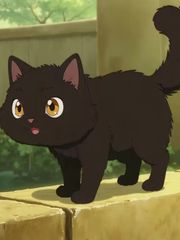
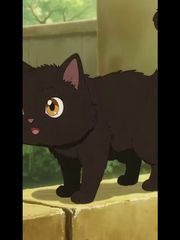
Fit focus scenes to every screen and use the app's own font everywhere
- Each photo and video scene now comes in four shapes: phone upright (9:16),
  tablet upright (3:4), tablet on its side (4:3) and laptop/desktop (16:9).
  The closest shape is picked for the screen and swapped when the device
  turns; videos keep their subject in view on upright screens.
- Readex Pro, the font the original app shows, is now served from fonts/
  (subset to Arabic and Latin, SIL OFL 1.1 with its licence) at the same
  400/700/800 weights the original loaded, preloaded and precached so it
  looks the same offline and in greeting cards. The font chooser and the
  request to the font server are gone; the settings fold arrow is drawn
  with CSS so no text falls back to another font.

Claude-Session: https://claude.ai/code/session_01V8c6hMMZy6JN8V6obZfNdZ

Changed region(s): [[0.8611, 0.0, 1.0, 1.0], [0.0, 0.0, 0.1389, 1.0]]

diff --git a/index.html b/index.html
@@ -8,6 +8,7 @@
 <meta name="theme-color" content="#3D405B">
 
 <link rel="manifest" href="./manifest.webmanifest">
+<link rel="preload" href="./fonts/readex-pro.woff2" as="font" type="font/woff2" crossorigin>
 <meta name="mobile-web-app-capable" content="yes">
 <meta name="apple-mobile-web-app-capable" content="yes">
 <meta name="apple-mobile-web-app-status-bar-style" content="black-translucent">
@@ -16,7 +17,7 @@
 <link rel="icon" type="image/png" sizes="192x192" href="./icon-192.png">
 
 <!--
-  شاشة المكتب: صفحة واحدة تشتغل على أي متصفح، بدون إنترنت (الخط فقط يحتاج إنترنت أول مرة).
+  شاشة المكتب: صفحة واحدة تشتغل على أي متصفح، بدون إنترنت (حتى الخط محفوظ داخله في مجلد fonts).
   عدّل الإعدادات تحت (داخل desk-config) أو من زر ⚙ داخل الشاشة نفسها.
   البيانات (المهام، الملاحظات، التسجيلات، الملفات، الإعدادات) تنحفظ في متصفح جهازك فقط، ومن الإعدادات تقدر تحفظ نسخة احتياطية.
 -->
@@ -44,6 +45,12 @@
 </script>
 <style>
 /* Layout: one portrait page at a time (time, tasks, focus, adhkar) with a tab bar at the bottom. Colors come from the chosen palette and switch light/dark with the time of day. */
+/* The one font of the app: Readex Pro (SIL Open Font License 1.1, see fonts/OFL.txt), kept in fonts/ so every page, button,
+   note and greeting card looks the same on every device, online or offline. Same three weights the original loaded:
+   300 and 500 draw as 400, 600 as 700, 800 as the font's boldest. */
+@font-face{font-family:"Readex Pro";src:url(./fonts/readex-pro.woff2) format("woff2");font-weight:400;font-style:normal;font-display:swap}
+@font-face{font-family:"Readex Pro";src:url(./fonts/readex-pro.woff2) format("woff2");font-weight:700;font-style:normal;font-display:swap}
+@font-face{font-family:"Readex Pro";src:url(./fonts/readex-pro.woff2) format("woff2");font-weight:800;font-style:normal;font-display:swap}
 :root{--u:min(1vw,.5625vh);--f:"Readex Pro","IBM Plex Sans Arabic","Geeza Pro",system-ui,sans-serif;
   --bg:#FDF6EC;--surface:#FFFDF8;--card:#F4EADB;--fg:#2B2D42;--muted:#6B6D80;--line:#E7DCCB;--accent:#E07A5F;--accentInk:#B8553C;--accentFg:#fff;
   --gold:#F2CC8F;--goldInk:#8E6A22;--ok:#4F8A6E;--hero:#3D405B;--heroFg:#FDF6EC;--heroMuted:#C9CADB;--heroTrack:rgba(253,246,236,.16);--olive:#81B29A}
@@ -451,8 +458,8 @@ textarea{font:inherit;color:inherit}
 .pill.sm{min-height:30px;padding:0 10px;font-size:13px;vertical-align:middle}
 details.dd summary{list-style:none}
 details.dd summary::-webkit-details-marker{display:none}
-details.dd summary::after{content:"▾";margin-inline-start:auto;color:var(--muted)}
-details.dd[open] summary::after{content:"▴"}
+details.dd summary::after{content:"";flex:none;width:.45em;height:.45em;margin-inline-start:auto;border:solid var(--muted);border-width:0 2px 2px 0;border-radius:1px;transform:translateY(-.15em) rotate(45deg)}
+details.dd[open] summary::after{transform:translateY(.15em) rotate(-135deg)}
 body.ambbg #occbg{visibility:hidden}
 .mini .hj{color:var(--accentInk);font-weight:700}
 .date .hjb{color:var(--accentInk);font-weight:700}
@@ -628,7 +635,7 @@ const PALETTES={
   blossom:{light:{bg:'#FFF6F9',surface:'#FFFFFF',card:'#FCE6EE',fg:'#3A2440',muted:'#83708A',line:'#F3D6E1',accent:'#E2598A',accentInk:'#B83C68',accentFg:'#FFFFFF',gold:'#FFD39B',goldInk:'#94582B',ok:'#3F9A7A',olive:'#8FC9AE',hero:'#6B3A6E',heroFg:'#FFF6F9',heroMuted:'#E6CBE7'},
         dark:{bg:'#1E1622',surface:'#2A1F2F',card:'#36293C',fg:'#FBEFF4',muted:'#C4AFC6',line:'#46364C',accent:'#F38BAE',accentInk:'#F8A9C4',accentFg:'#1E1622',gold:'#FFD39B',goldInk:'#FFD39B',ok:'#7FD1B0',olive:'#7FD1B0',hero:'#3A2840',heroFg:'#FBEFF4',heroMuted:'#C4AFC6'}}};
 /* Arabic fonts from Google Fonts: [family, Arabic label, weights that family really has] */
-const FONTS=[['Readex Pro','ريدكس (الأصلي)','400;700;800'],['Almarai','المراعي','300;400;700;800'],['IBM Plex Sans Arabic','بلكس','400;500;700'],['Tajawal','تجوال','400;500;700;800'],['Noto Kufi Arabic','كوفي','400;700;800']];
+const APP_FONT='Readex Pro';   /* the app's only font, from fonts/readex-pro.woff2 */
 const ALL_PAGES=[['time','الوقت'],['tasks','مهامي'],['notes','ملاحظاتي'],['focus','التركيز'],['adhkar','الأذكار']];
 const lsGet=(k,f)=>{try{const v=JSON.parse(localStorage.getItem(k));return v==null?f:v}catch(e){return f}};
 const lsSet=(k,v)=>{try{localStorage.setItem(k,JSON.stringify(v))}catch(e){}};
@@ -637,7 +644,7 @@ function settings(){
   const s={name:typeof o.name==='string'?o.name:(CFG.name||''),city:CITIES[o.city]?o.city:(CITIES[CFG.city]?CFG.city:'muscat'),
     method:METHODS[o.method]?o.method:(METHODS[CFG.method]?CFG.method:'uq'),theme:['auto','light','dark'].includes(o.theme)?o.theme:(['auto','light','dark'].includes(CFG.theme)?CFG.theme:'auto'),
     clock:(o.clock||CFG.clock)==='24'?'24':'12',adj:{fajr:0,dhuhr:0,asr:0,maghrib:0,isha:0},hijriAdj:0,
-    palette:PALETTES[o.palette]?o.palette:(PALETTES[CFG.palette]?CFG.palette:'navy'),font:FONTS.some(f=>f[0]===o.font)?o.font:(FONTS.some(f=>f[0]===CFG.font)?CFG.font:'Readex Pro'),mascot:o.mascot===true,
+    palette:PALETTES[o.palette]?o.palette:(PALETTES[CFG.palette]?CFG.palette:'navy'),mascot:o.mascot===true,
     adhan:['aqsa','file','chime'].includes(o.adhan)?o.adhan:'aqsa',fajr:['same','file','chime'].includes(o.fajr)?o.fajr:'same',
     pre:[0,5,10,15].includes(+o.pre)?+o.pre:10,click:['pop','bubble','bell','off'].includes(o.click)?o.click:'pop',
     nudge:[0,30,60,90].includes(+o.nudge)?+o.nudge:60,work:[7,15],dict:o.dict==='en'?'en':'ar',
@@ -654,11 +661,6 @@ const PAGES=ALL_PAGES.filter(([k])=>!Array.isArray(CFG.pages)||CFG.pages.include
 let PAL=PALETTES[ST.palette]||PALETTES.navy;
 const FW=Array.isArray(CFG.focus)?CFG.focus:[25,5];
 const FOCUS_WORK=Math.max(5,Math.min(120,+FW[0]||25))*6e4,FOCUS_BREAK=Math.max(1,Math.min(30,+FW[1]||5))*6e4;
-const fontDone={};
-function fontCss(list){const fam=list.filter(d=>!fontDone[d[0]]);if(!fam.length)return;fam.forEach(d=>fontDone[d[0]]=1);const l=document.createElement('link');l.rel='stylesheet';
-  l.href='https://fonts.googleapis.com/css2?'+fam.map(d=>'family='+d[0].replace(/ /g,'+')+':wght@'+d[2]).join('&')+'&display=swap';document.head.appendChild(l)}
-function useFont(f){const d=FONTS.find(x=>x[0]===f)||FONTS[0];fontCss([d]);document.documentElement.style.setProperty('--f',`"${d[0]}","IBM Plex Sans Arabic","Geeza Pro",system-ui,sans-serif`)}
-useFont(ST.font);
 
 /* ---------- helpers ---------- */
 const esc=s=>String(s??'').replace(/[&<>"']/g,c=>({'&':'&amp;','<':'&lt;','>':'&gt;','"':'&quot;',"'":'&#39;'}[c]));
@@ -935,7 +937,7 @@ document.addEventListener('visibilitychange',()=>{if(!document.hidden&&OB.occ&&!
 /* greeting card: a picture to share on the occasion's day */
 function wrapLines(x,text,maxW){const words=String(text).split(/\s+/),lines=[];let cur='';for(const w of words){const t=cur?cur+' '+w:w;if(x.measureText(t).width>maxW&&cur){lines.push(cur);cur=w}else cur=t}if(cur)lines.push(cur);return lines}
 async function greetCard(id){const o=OCC.find(z=>z.id===id)||occActive();if(!o)return;toast('أجهّز بطاقة التهنئة…');
-  const FF='"'+ST.font+'","Geeza Pro",sans-serif';try{await Promise.all(['800 64px "'+ST.font+'"','400 40px "'+ST.font+'"'].map(f=>document.fonts&&document.fonts.load?document.fonts.load(f):0))}catch(e){}
+  const FF='"'+APP_FONT+'","Geeza Pro",sans-serif';try{await Promise.all(['400','700','800'].map(w=>document.fonts&&document.fonts.load?document.fonts.load(w+' 40px "'+APP_FONT+'"'):0))}catch(e){}
   const W=1080,Hh=1350,c=document.createElement('canvas');c.width=W;c.height=Hh;const x=c.getContext('2d');
   x.fillStyle='#FFFDF9';x.fillRect(0,0,W,Hh);x.drawImage(paintBase(o,W,Hh,false,true),0,0);
   const R=seeded(o.id.length*977+W);for(const p of makeParts(o,W,Hh,R)){p.sz*=1.6;if(p.y>Hh*.2&&p.y<Hh*.82&&p.x>W*.08&&p.x<W*.92)continue;drawPart(x,p,false)}
@@ -1293,7 +1295,7 @@ async function wake(){try{if(navigator.wakeLock&&!document.hidden)await navigato
 /* ---------- settings sheet ---------- */
 const chipsH=(id,opts,cur)=>`<div class="chips" id="${id}">${opts.map(([k,l])=>`<button type="button" data-a="pick" data-v="${k}" aria-pressed="${String(k)===String(cur)}">${l}</button>`).join('')}</div>`;
 function openSettings(){
-  S.draft=JSON.parse(JSON.stringify(ST));fontCss(FONTS);const T=dayPrayers(0),en=new Set(Array.isArray(ST.occ)?ST.occ:OCC.map(o=>o.id));
+  S.draft=JSON.parse(JSON.stringify(ST));const T=dayPrayers(0),en=new Set(Array.isArray(ST.occ)?ST.occ:OCC.map(o=>o.id));
   const hrs=a=>Array.from({length:20},(_,i)=>i+4).map(h=>`<option value="${h}"${h===a?' selected':''}>${h<12?h+' ص':h===12?'12 م':(h-12)+' م'}</option>`).join('');
   sheetOpen('settings',`<h2>إعدادات الشاشة</h2>
   <form data-form="settings">
@@ -1305,7 +1307,6 @@ function openSettings(){
     <div class="field"><span class="lab">التاريخ الهجري</span><div class="adj"><div><span id="s-hv">${esc(hDate())}</span><span class="ctl"><button type="button" data-a="hadj" data-d="-1" aria-label="يوم قبل">−</button><span class="num" id="s-h">${ST.hijriAdj>0?'+':''}${ST.hijriAdj} يوم</span><button type="button" data-a="hadj" data-d="1" aria-label="يوم بعد">+</button></span></div></div></div>
     <div class="field"><span class="lab">الثيم</span>${chipsH('s-theme',[['auto','تلقائي (داكن بعد المغرب)'],['light','فاتح'],['dark','داكن']],ST.theme)}</div>
     <div class="field"><span class="lab">الألوان</span>${chipsH('s-pal',[['navy','كحلي (الأصلي)'],['pearl','لؤلؤي 🤍'],['blossom','كيوت وردي 🌸'],['sand','رملي'],['sea','بحري'],['ink','حبري']],ST.palette)}</div>
-    <div class="field"><span class="lab">الخط</span>${chipsH('s-font',FONTS.map(([f,l])=>[f,`<span style="font-family:'${f}',sans-serif">${l} · أبجد 123</span>`]),ST.font)}</div>
     <div class="field"><span class="lab">حاشي، الصديق الصغير 🐪</span>${chipsH('s-mascot',[['1','يظهر'],['0','مخفي']],ST.mascot?'1':'0')}</div>
     <div class="field"><span class="lab">الساعة</span>${chipsH('s-clock',[['12','12 ساعة'],['24','24 ساعة']],ST.clock)}</div>
     <h3 class="sh">الأذان</h3>
@@ -1790,8 +1791,13 @@ function createAmbience(opts){
   function flashLevel(now){const t=(now-FL.t0)/1000;if(t<0||t>=FLK[FLK.length-1][0])return 0;
     for(let i=1;i<FLK.length;i++)if(t<=FLK[i][0]){const [a,va]=FLK[i-1],[b,vb]=FLK[i];return (va+(vb-va)*(t-a)/(b-a))*(RM?.35:1)}return 0}
   const flashOn=()=>performance.now()-FL.t0<1000;
-  const variant=()=>W&&H&&W/H>1?'wide':'tall';
-  const libV=(k,v)=>{const L=LIB[k];return (v==='wide'&&L.wide)||L.tall};
+  /* each picture scene can come in four shapes: tall 9:16 (phone upright), tab 3:4 (tablet upright), land 4:3 (tablet on its side), wide 16:9 (laptop, desktop);
+     the one closest to the screen's shape is used, and resize() swaps it when the device turns */
+  const VAR_AR={tall:9/16,tab:3/4,land:4/3,wide:16/9};
+  const variant=()=>{if(!(W&&H))return 'tall';const a=W/H,L=LIB[st.scene];let best=a>1?'wide':'tall',bd=1e9;
+    for(const v in VAR_AR){if(L&&!L[v])continue;const d=Math.abs(Math.log(a/VAR_AR[v]));if(d<bd){bd=d;best=v}}return best};
+  const isWideV=v=>v==='wide'||v==='land';
+  const libV=(k,v)=>{const L=LIB[k];return L[v]||(isWideV(v)?(L.wide||L.land):(L.tab||L.tall))||L.tall||L.wide};
   function fit(img,w,h){const ar=img.naturalWidth/img.naturalHeight,mr=w/h,r=ar/mr;
     if(r>1/1.35&&r<1.35){const s=Math.max(w/img.naturalWidth,h/img.naturalHeight),dw=img.naturalWidth*s,dh=img.naturalHeight*s;return{dx:(w-dw)/2,dy:(h-dh)/2,dw,dh,cover:true}}
     const s=Math.min(w/img.naturalWidth,h/img.naturalHeight),dw=img.naturalWidth*s,dh=img.naturalHeight*s;return{dx:(w-dw)/2,dy:(h-dh)/2,dw,dh,cover:false}}
@@ -1861,6 +1867,7 @@ function createAmbience(opts){
   const vlWant=()=>{if(kind()!=='scene'||!st.motion)return '';const v=libV(st.scene,curVar),u=v&&v.vid?BASE+v.vid:'';return u&&!VL.fail.has(u)?u:''};
   function vlSync(){const u=vlWant();
     if(u!==VL.src){vlReset();if(u){const [a,b]=vlEls();VL.src=u;VL.state='loading';a.src=u;b.src=u}}
+    if(VL.v.length){const L=LIB[st.scene],p=L&&libV(st.scene,curVar).pos||'50% 50%';for(const el of VL.v)el.style.objectPosition=p}   // keep the subject in view on upright screens
     if(!VL.src)return;if(V.showing&&!document.hidden)vlPlay();else vlPause()}
   const vlGo=v=>{try{const p=v.play();if(p&&p.catch)p.catch(e=>{if(e&&e.name!=='AbortError'&&VL.src&&v.getAttribute('src')===VL.src)vlFail()})}catch(e){vlFail()}};
   function vlPlay(){vlGo(VL.v[VL.act]);if(VL.sw)vlGo(VL.v[VL.act^1]);if(!VL.chk)VL.chk=setInterval(vlCheck,100)}
@@ -2118,7 +2125,7 @@ function createAmbience(opts){
   function setPage(isFocus){const d=!isFocus;if(V.vis&&V.dim===d)return V.showing;V.vis=true;V.dim=d;applyShow();return V.showing}
 
   /* ---------------- state + change events ---------------- */
-  function snapshot(){const k=kind();return{scene:st.scene,cat:LIB[st.scene]?catOf(st.scene):null,kind:k,wide:curVar==='wide',showing:V.showing,dim:!!V.edim,playing:A.playing,pending:A.pending,ducked:A.ducked,unlocked:A.unlocked,
+  function snapshot(){const k=kind();return{scene:st.scene,cat:LIB[st.scene]?catOf(st.scene):null,kind:k,wide:isWideV(curVar),showing:V.showing,dim:!!V.edim,playing:A.playing,pending:A.pending,ducked:A.ducked,unlocked:A.unlocked,
     amb:st.amb,mus:st.mus,thunder:st.thunder,motion:st.motion,nowMus:A.playing&&!A.ducked?A.mus.now:'',hasSound:hasSound(),vid:VL.state,
     bgName:F.bg?F.bg.name:'',ambName:F.amb?F.amb.name:'',musName:F.mus?F.mus.name:'',
     ovRain:st.ovRain,ovGlow:st.ovGlow,withTimer:st.withTimer,allPages:st.allPages,vAmb:st.vAmb,vMus:st.vMus,ytId:ytId(),ytSound:st.ytSound,
@@ -2146,8 +2153,8 @@ function createAmbience(opts){
     /* scenes: «وضع المشاهد», then the library in two groups */
     h+=`<section class="amb-sec"><h3 class="amb-h">${T.bgH}</h3>`;
     if(!SHOWM)h+=`<button type="button" class="amb-b amb-showbtn" data-a="show" data-fk="show">${ICON.show}<span>${T.showOpen}</span></button>`;
-    const pic=key=>{const L=LIB[key],im=BASE+(v==='wide'&&L.wide?L.wide.img:'thumb-'+key+'.jpg');
-      return `<button type="button" class="amb-pic${v==='wide'?' amb-wide':''}" data-a="scene" data-v="${esc(key)}" data-fk="scene-${esc(key)}" aria-pressed="${key===sc}"><span class="amb-ph" style="background-image:url(&quot;${esc(im)}&quot;)"></span><span class="amb-nm">${esc(L.name)}</span></button>`};
+    const pic=key=>{const L=LIB[key],lw=L.wide||L.land,im=BASE+(isWideV(v)&&lw?lw.img:'thumb-'+key+'.jpg');
+      return `<button type="button" class="amb-pic${isWideV(v)&&lw?' amb-wide':''}" data-a="scene" data-v="${esc(key)}" data-fk="scene-${esc(key)}" aria-pressed="${key===sc}"><span class="amb-ph" style="background-image:url(&quot;${esc(im)}&quot;)"></span><span class="amb-nm">${esc(L.name)}</span></button>`};
     for(const [cat,label] of [['cozy',T.cozy],['nature',T.nature],['motion','متحركة']]){const ks=libKeys().filter(x=>catOf(x)===cat);if(!ks.length)continue;
       h+=`<h4 class="amb-h amb-hs" id="${uid}-${cat}">${label}</h4><div class="amb-lib" role="group" aria-labelledby="${uid}-${cat}">${ks.map(pic).join('')}</div>`}
     if(SH.paired&&LIB[sc])h+=`<p class="amb-note">${T.paired}</p>`;
@@ -2355,9 +2362,9 @@ function createAmbience(opts){
    and the owner's own photo scenes listed in MY_SCENES */
 const MEDIA='./media/';
 /* the owner's scenes. Overlay coordinates are fractions of each picture: win = window glass for rain, lights = glows, steam = cup rims, fx = rain/snow/stars/petals/fireflies/shimmer/mist areas */
-const MY_SCENES={"desk":{"name":"مكتب المطر","cat":"cozy","amb":"rain-window","mus":"none","thunder":false,"tall":{"img":"scene-desk.jpg","win":[0.5892,0,0.4108,0.81],"lights":[{"x":0.1178,"y":0.42,"r":0.414,"k":"lamp"}]},"wide":{"img":"scene-desk-wide.jpg","win":[0.545,0,0.345,0.81],"lights":[{"x":0.397,"y":0.42,"r":0.13,"k":"lamp"}],"steam":[{"x":0.305,"y":0.63}]}},"cafe":{"name":"مقهى تحت المطر","cat":"cozy","amb":"rain-cafe","mus":"none","thunder":false,"tall":{"img":"scene-cafe.jpg","win":[0,0.05,1,0.57],"lights":[{"x":0.9554,"y":0.52,"r":0.3822,"k":"lamp"}],"steam":[{"x":0.1752,"y":0.705}]},"wide":{"img":"scene-cafe-wide.jpg","win":[0.47,0.05,0.38,0.57],"lights":[{"x":0.8,"y":0.52,"r":0.12,"k":"lamp"},{"x":0.02,"y":0.26,"r":0.04,"k":"lamp"},{"x":0.14,"y":0.28,"r":0.04,"k":"lamp"}],"steam":[{"x":0.555,"y":0.705}]}},"village":{"name":"قرية جبلية","cat":"nature","amb":"mountain-morning","mus":"none","thunder":false,"tall":{"img":"scene-village.jpg","lights":[{"x":0.6369,"y":0.17,"r":0.3185,"k":"lamp"}],"fx":[{"k":"mist","a":[0,0.12,1,0.28],"n":0.55},{"k":"mist","a":[0,0.34,0.9554,0.12],"n":0.45},{"k":"shimmer","a":[0.6369,0.72,0.3631,0.14],"n":0.35}]},"wide":{"img":"scene-village-wide.jpg","lights":[{"x":0.5497,"y":0.17,"r":0.1,"k":"lamp"}],"fx":[{"k":"mist","a":[0.3496,0.12,0.3302,0.28],"n":0.55},{"k":"mist","a":[0.3496,0.34,0.3001,0.12],"n":0.45},{"k":"shimmer","a":[0.5497,0.72,0.1201,0.14],"n":0.35}]}},"lake":{"name":"بحيرة العصر","cat":"nature","amb":"lake-afternoon","mus":"none","thunder":false,"tall":{"img":"scene-lake.jpg","lights":[{"x":0.3344,"y":0.25,"r":0.4459,"k":"lamp"}],"fx":[{"k":"shimmer","a":[0.0159,0.42,0.9554,0.38],"n":0.45},{"k":"fireflies","a":[0.1115,0.7,0.8599,0.26],"n":0.3}]},"wide":{"img":"scene-lake-wide.jpg","lights":[{"x":0.445,"y":0.25,"r":0.1399,"k":"lamp"}],"fx":[{"k":"shimmer","a":[0.3451,0.42,0.2998,0.38],"n":0.45},{"k":"fireflies","a":[0.3751,0.7,0.2698,0.26],"n":0.3}]}},"sakura":{"name":"حديقة الساكورا","cat":"nature","amb":"garden-stream","mus":"none","thunder":false,"tall":{"img":"scene-sakura.jpg","lights":[{"x":0.2102,"y":0.53,"r":0.0701,"k":"candle"},{"x":0.5478,"y":0.44,"r":0.0573,"k":"candle"},{"x":0.9522,"y":0.73,"r":0.0701,"k":"candle"}],"fx":[{"k":"rain","a":[0,0,1.0,1],"n":0.5},{"k":"petals","a":[0,0,1.0,0.6],"n":0.45},{"k":"shimmer","a":[0.0446,0.7,0.9554,0.3],"n":0.35}]},"wide":{"img":"scene-sakura-wide.jpg","lights":[{"x":0.4016,"y":0.53,"r":0.022,"k":"candle"},{"x":0.5076,"y":0.44,"r":0.018,"k":"candle"},{"x":0.6347,"y":0.73,"r":0.022,"k":"candle"}],"fx":[{"k":"rain","a":[0.3246,0,0.3252,1],"n":0.5},{"k":"petals","a":[0.3246,0,0.3252,0.6],"n":0.45},{"k":"shimmer","a":[0.3496,0.7,0.3001,0.3],"n":0.35}]}},"bridge":{"name":"الجسر الأحمر","cat":"nature","amb":"garden-stream","mus":"none","thunder":false,"tall":{"img":"scene-bridge.jpg","lights":[{"x":0.4936,"y":0.13,"r":0.3822,"k":"lamp"}],"fx":[{"k":"shimmer","a":[0,0.6,1,0.38],"n":0.4},{"k":"mist","a":[0.1115,0.2,0.8885,0.12],"n":0.45},{"k":"petals","a":[0,0,1,0.55],"n":0.25}]},"wide":{"img":"scene-bridge-wide.jpg","lights":[{"x":0.5,"y":0.13,"r":0.12,"k":"lamp"}],"fx":[{"k":"shimmer","a":[0.25,0.6,0.55,0.38],"n":0.4},{"k":"mist","a":[0.38,0.2,0.3,0.12],"n":0.45},{"k":"petals","a":[0,0,1,0.55],"n":0.25}]}},"kitten":{"name":"القطة الصغيرة","cat":"motion","amb":"mountain-morning","mus":"none","thunder":false,"tall":{"img":"scene-kitten.jpg","vid":"scene-kitten.mp4"}},"flowers":{"name":"حقل الأزهار","cat":"motion","amb":"mountain-morning","mus":"none","thunder":false,"tall":{"img":"scene-flowers.jpg","vid":"scene-flowers.mp4"}},"cyclist":{"name":"رحلة الدراجة","cat":"motion","amb":"mountain-morning","mus":"none","thunder":false,"tall":{"img":"scene-cyclist.jpg","vid":"scene-cyclist.mp4"}},"princess":{"name":"الأميرة","cat":"motion","amb":"garden-stream","mus":"none","thunder":false,"tall":{"img":"scene-princess.jpg","vid":"scene-princess.mp4"}},"boats":{"name":"القوارب","cat":"motion","amb":"waves","mus":"none","thunder":false,"tall":{"img":"scene-boats.jpg","vid":"scene-boats.mp4"}},"meadow":{"name":"حقل السنابل","cat":"motion","amb":"mountain-morning","mus":"none","thunder":false,"tall":{"img":"scene-meadow.jpg","vid":"scene-meadow.mp4"}},"tiger":{"name":"نمر الغابة","cat":"motion","amb":"forest-rain","mus":"none","thunder":true,"tall":{"img":"scene-tiger.jpg","vid":"scene-tiger.mp4"}}};
+const MY_SCENES={"desk":{"name":"مكتب المطر","cat":"cozy","amb":"rain-window","mus":"none","thunder":false,"tall":{"img":"scene-desk.jpg","win":[0.5901,0,0.4099,0.81],"lights":[{"x":0.1187,"y":0.42,"r":0.4141,"k":"lamp"}]},"tab":{"img":"scene-desk-tab.jpg","win":[0.6075,0,0.3925,0.81],"lights":[{"x":0.2539,"y":0.42,"r":0.3106,"k":"lamp"}],"steam":[{"x":0.0342,"y":0.63}]},"land":{"img":"scene-desk-land.jpg","win":[0.4667,0,0.4636,0.81],"lights":[{"x":0.2678,"y":0.42,"r":0.1747,"k":"lamp"}],"steam":[{"x":0.1442,"y":0.63}]},"wide":{"img":"scene-desk-wide.jpg","win":[0.545,0,0.345,0.81],"lights":[{"x":0.397,"y":0.42,"r":0.13,"k":"lamp"}],"steam":[{"x":0.305,"y":0.63}]}},"cafe":{"name":"مقهى تحت المطر","cat":"cozy","amb":"rain-cafe","mus":"none","thunder":false,"tall":{"img":"scene-cafe.jpg","win":[0,0.05,1,0.57],"lights":[{"x":0.9556,"y":0.52,"r":0.3822,"k":"lamp"}],"steam":[{"x":0.1752,"y":0.705}]},"tab":{"img":"scene-cafe-tab.jpg","win":[0.0464,0.05,0.9078,0.57],"lights":[{"x":0.8347,"y":0.52,"r":0.2867,"k":"lamp"}],"steam":[{"x":0.2494,"y":0.705}]},"land":{"img":"scene-cafe-land.jpg","win":[0.3249,0.05,0.5106,0.57],"lights":[{"x":0.7684,"y":0.52,"r":0.1613,"k":"lamp"}],"steam":[{"x":0.4391,"y":0.705}]},"wide":{"img":"scene-cafe-wide.jpg","win":[0.47,0.05,0.38,0.57],"lights":[{"x":0.8,"y":0.52,"r":0.12,"k":"lamp"},{"x":0.02,"y":0.26,"r":0.04,"k":"lamp"},{"x":0.14,"y":0.28,"r":0.04,"k":"lamp"}],"steam":[{"x":0.555,"y":0.705}]}},"village":{"name":"قرية جبلية","cat":"nature","amb":"mountain-morning","mus":"none","thunder":false,"tall":{"img":"scene-village.jpg","lights":[{"x":0.637,"y":0.17,"r":0.3185,"k":"lamp"}],"fx":[{"k":"mist","a":[0,0.12,1,0.28],"n":0.55},{"k":"mist","a":[0,0.34,0.9556,0.12],"n":0.45},{"k":"shimmer","a":[0.637,0.72,0.363,0.14],"n":0.35}]},"tab":{"img":"scene-village-tab.jpg","lights":[{"x":0.6196,"y":0.17,"r":0.2392,"k":"lamp"}],"fx":[{"k":"mist","a":[0.1412,0.12,0.7894,0.28],"n":0.55},{"k":"mist","a":[0.1412,0.34,0.7176,0.12],"n":0.45},{"k":"shimmer","a":[0.6196,0.72,0.287,0.14],"n":0.35}]},"land":{"img":"scene-village-land.jpg","lights":[{"x":0.5667,"y":0.17,"r":0.1344,"k":"lamp"}],"fx":[{"k":"mist","a":[0.2979,0.12,0.4437,0.28],"n":0.55},{"k":"mist","a":[0.2979,0.34,0.4033,0.12],"n":0.45},{"k":"shimmer","a":[0.5667,0.72,0.1613,0.14],"n":0.35}]},"wide":{"img":"scene-village-wide.jpg","lights":[{"x":0.5497,"y":0.17,"r":0.1,"k":"lamp"}],"fx":[{"k":"mist","a":[0.3496,0.12,0.3302,0.28],"n":0.55},{"k":"mist","a":[0.3496,0.34,0.3001,0.12],"n":0.45},{"k":"shimmer","a":[0.5497,0.72,0.1201,0.14],"n":0.35}]}},"lake":{"name":"بحيرة العصر","cat":"nature","amb":"lake-afternoon","mus":"none","thunder":false,"tall":{"img":"scene-lake.jpg","lights":[{"x":0.3338,"y":0.25,"r":0.4459,"k":"lamp"}],"fx":[{"k":"shimmer","a":[0.0153,0.42,0.9556,0.38],"n":0.45},{"k":"fireflies","a":[0.1108,0.7,0.86,0.26],"n":0.3}]},"tab":{"img":"scene-lake-tab.jpg","lights":[{"x":0.3681,"y":0.25,"r":0.3342,"k":"lamp"}],"fx":[{"k":"shimmer","a":[0.1294,0.42,0.7161,0.38],"n":0.45},{"k":"fireflies","a":[0.201,0.7,0.6445,0.26],"n":0.3}]},"land":{"img":"scene-lake-land.jpg","lights":[{"x":0.4261,"y":0.25,"r":0.188,"k":"lamp"}],"fx":[{"k":"shimmer","a":[0.2919,0.42,0.4028,0.38],"n":0.45},{"k":"fireflies","a":[0.3322,0.7,0.3625,0.26],"n":0.3}]},"wide":{"img":"scene-lake-wide.jpg","lights":[{"x":0.445,"y":0.25,"r":0.1399,"k":"lamp"}],"fx":[{"k":"shimmer","a":[0.3451,0.42,0.2998,0.38],"n":0.45},{"k":"fireflies","a":[0.3751,0.7,0.2698,0.26],"n":0.3}]}},"sakura":{"name":"حديقة الساكورا","cat":"nature","amb":"garden-stream","mus":"none","thunder":false,"tall":{"img":"scene-sakura.jpg","lights":[{"x":0.2101,"y":0.53,"r":0.0701,"k":"candle"},{"x":0.5477,"y":0.44,"r":0.0573,"k":"candle"},{"x":0.9522,"y":0.73,"r":0.0701,"k":"candle"}],"fx":[{"k":"rain","a":[0,0,1,1],"n":0.5},{"k":"petals","a":[0,0,1,0.6],"n":0.45},{"k":"shimmer","a":[0.0444,0.7,0.9556,0.3],"n":0.35}]},"tab":{"img":"scene-sakura-tab.jpg","lights":[{"x":0.2656,"y":0.53,"r":0.0526,"k":"candle"},{"x":0.5191,"y":0.44,"r":0.0431,"k":"candle"},{"x":0.8229,"y":0.73,"r":0.0526,"k":"candle"}],"fx":[{"k":"rain","a":[0.0814,0,0.7774,1],"n":0.5},{"k":"petals","a":[0.0814,0,0.7774,0.6],"n":0.45},{"k":"shimmer","a":[0.1412,0.7,0.7176,0.3],"n":0.35}]},"land":{"img":"scene-sakura-land.jpg","lights":[{"x":0.3678,"y":0.53,"r":0.0296,"k":"candle"},{"x":0.5103,"y":0.44,"r":0.0242,"k":"candle"},{"x":0.681,"y":0.73,"r":0.0296,"k":"candle"}],"fx":[{"k":"rain","a":[0.2642,0,0.4369,1],"n":0.5},{"k":"petals","a":[0.2642,0,0.4369,0.6],"n":0.45},{"k":"shimmer","a":[0.2979,0.7,0.4033,0.3],"n":0.35}]},"wide":{"img":"scene-sakura-wide.jpg","lights":[{"x":0.4016,"y":0.53,"r":0.022,"k":"candle"},{"x":0.5076,"y":0.44,"r":0.018,"k":"candle"},{"x":0.6347,"y":0.73,"r":0.022,"k":"candle"}],"fx":[{"k":"rain","a":[0.3246,0,0.3252,1],"n":0.5},{"k":"petals","a":[0.3246,0,0.3252,0.6],"n":0.45},{"k":"shimmer","a":[0.3496,0.7,0.3001,0.3],"n":0.35}]}},"bridge":{"name":"الجسر الأحمر","cat":"nature","amb":"garden-stream","mus":"none","thunder":false,"tall":{"img":"scene-bridge.jpg","lights":[{"x":0.495,"y":0.13,"r":0.3821,"k":"lamp"}],"fx":[{"k":"shimmer","a":[0,0.6,1,0.38],"n":0.4},{"k":"mist","a":[0.1129,0.2,0.8871,0.12],"n":0.45},{"k":"petals","a":[0,0,1,0.55],"n":0.25}]},"tab":{"img":"scene-bridge-tab.jpg","lights":[{"x":0.5,"y":0.13,"r":0.287,"k":"lamp"}],"fx":[{"k":"shimmer","a":[0,0.6,1,0.38],"n":0.4},{"k":"mist","a":[0.213,0.2,0.7176,0.12],"n":0.45},{"k":"petals","a":[0,0,1,0.55],"n":0.25}]},"land":{"img":"scene-bridge-land.jpg","lights":[{"x":0.5,"y":0.13,"r":0.1614,"k":"lamp"}],"fx":[{"k":"shimmer","a":[0.1638,0.6,0.7395,0.38],"n":0.4},{"k":"mist","a":[0.3386,0.2,0.4034,0.12],"n":0.45},{"k":"petals","a":[0,0,1,0.55],"n":0.25}]},"wide":{"img":"scene-bridge-wide.jpg","lights":[{"x":0.5005,"y":0.13,"r":0.1201,"k":"lamp"}],"fx":[{"k":"shimmer","a":[0.2503,0.6,0.5506,0.38],"n":0.4},{"k":"mist","a":[0.3804,0.2,0.3003,0.12],"n":0.45},{"k":"petals","a":[0,0,1,0.55],"n":0.25}]}},"kitten":{"name":"القطة الصغيرة","cat":"motion","amb":"mountain-morning","mus":"none","thunder":false,"tall":{"img":"scene-kitten.jpg","vid":"scene-kitten.mp4","pos":"50% 50%"},"tab":{"img":"scene-kitten-tab.jpg","vid":"scene-kitten.mp4","pos":"50% 50%"},"land":{"img":"scene-kitten-land.jpg","vid":"scene-kitten.mp4","pos":"50% 50%"},"wide":{"img":"scene-kitten-wide.jpg","vid":"scene-kitten.mp4","pos":"50% 50%"}},"flowers":{"name":"حقل الأزهار","cat":"motion","amb":"mountain-morning","mus":"none","thunder":false,"tall":{"img":"scene-flowers.jpg","vid":"scene-flowers.mp4","pos":"45% 50%"},"tab":{"img":"scene-flowers-tab.jpg","vid":"scene-flowers.mp4","pos":"45% 50%"},"land":{"img":"scene-flowers-land.jpg","vid":"scene-flowers.mp4","pos":"45% 50%"},"wide":{"img":"scene-flowers-wide.jpg","vid":"scene-flowers.mp4","pos":"45% 50%"}},"cyclist":{"name":"رحلة الدراجة","cat":"motion","amb":"mountain-morning","mus":"none","thunder":false,"tall":{"img":"scene-cyclist.jpg","vid":"scene-cyclist.mp4","pos":"58% 50%"},"tab":{"img":"scene-cyclist-tab.jpg","vid":"scene-cyclist.mp4","pos":"58% 50%"},"land":{"img":"scene-cyclist-land.jpg","vid":"scene-cyclist.mp4","pos":"58% 50%"},"wide":{"img":"scene-cyclist-wide.jpg","vid":"scene-cyclist.mp4","pos":"58% 50%"}},"princess":{"name":"الأميرة","cat":"motion","amb":"garden-stream","mus":"none","thunder":false,"tall":{"img":"scene-princess.jpg","vid":"scene-princess.mp4","pos":"53% 50%"},"tab":{"img":"scene-princess-tab.jpg","vid":"scene-princess.mp4","pos":"53% 50%"},"land":{"img":"scene-princess-land.jpg","vid":"scene-princess.mp4","pos":"53% 50%"},"wide":{"img":"scene-princess-wide.jpg","vid":"scene-princess.mp4","pos":"53% 50%"}},"boats":{"name":"القوارب","cat":"motion","amb":"waves","mus":"none","thunder":false,"tall":{"img":"scene-boats.jpg","vid":"scene-boats.mp4","pos":"40% 50%"},"tab":{"img":"scene-boats-tab.jpg","vid":"scene-boats.mp4","pos":"40% 50%"},"land":{"img":"scene-boats-land.jpg","vid":"scene-boats.mp4","pos":"40% 50%"},"wide":{"img":"scene-boats-wide.jpg","vid":"scene-boats.mp4","pos":"40% 50%"}},"meadow":{"name":"حقل السنابل","cat":"motion","amb":"mountain-morning","mus":"none","thunder":false,"tall":{"img":"scene-meadow.jpg","vid":"scene-meadow.mp4","pos":"52% 50%"},"tab":{"img":"scene-meadow-tab.jpg","vid":"scene-meadow.mp4","pos":"52% 50%"},"land":{"img":"scene-meadow-land.jpg","vid":"scene-meadow.mp4","pos":"52% 50%"},"wide":{"img":"scene-meadow-wide.jpg","vid":"scene-meadow.mp4","pos":"52% 50%"}},"tiger":{"name":"نمر الغابة","cat":"motion","amb":"forest-rain","mus":"none","thunder":true,"tall":{"img":"scene-tiger.jpg","vid":"scene-tiger.mp4","pos":"46% 50%"},"tab":{"img":"scene-tiger-tab.jpg","vid":"scene-tiger.mp4","pos":"46% 50%"},"land":{"img":"scene-tiger-land.jpg","vid":"scene-tiger.mp4","pos":"46% 50%"},"wide":{"img":"scene-tiger-wide.jpg","vid":"scene-tiger.mp4","pos":"46% 50%"}}};
 function mediaFiles(){const L=amb()._lib;if(!L)return [];const out=[];
-  for(const k in L.LIB){const sc=L.LIB[k];out.push('thumb-'+k+'.jpg');for(const v of [sc.tall,sc.wide])if(v){out.push(v.img);if(v.vid)out.push(v.vid)}}
+  for(const k in L.LIB){const sc=L.LIB[k];out.push('thumb-'+k+'.jpg');for(const v of [sc.tall,sc.tab,sc.land,sc.wide])if(v){out.push(v.img);if(v.vid)out.push(v.vid)}}
   for(const a of L.AMB_LIB)out.push(a[0]+'.mp3');out.push('thunder-1.mp3','thunder-2.mp3','thunder-3.mp3');return [...new Set(out)]}
 async function cacheMedia(){const fs=mediaFiles();let n=0;toast('أحفظ المشاهد والأصوات في هذا الجهاز…');
   for(const f of fs){try{const r=await fetch(MEDIA+f);if(r.ok){await r.arrayBuffer();n++}}catch(e){}if(n&&n%10===0)toast('حفظت '+n+' من '+fs.length)}
@@ -2418,11 +2425,11 @@ document.addEventListener('click',async e=>{
     case 'settings':openSettings();break;
     case 'amb':amb().openSheet();break;
     case 'show':openShow();break;
-    case 'close':if(document.getElementById('sheetwrap')?.dataset.kind==='settings')useFont(ST.font);closeSettings();break;
+    case 'close':closeSettings();break;
     case 'stop':stopSound();break;
     case 'banner-x':stopSound();S.banner=null;amb().duck(false);render();break;
     case 'test':{S.audioOK=true;S.started=true;const pk=id=>document.querySelector(`#${id} [aria-pressed="true"]`)?.dataset.v;playAdhan(b.dataset.k||'dhuhr',{adhan:pk('s-adhan')||ST.adhan,fajr:pk('s-fajr')||ST.fajr});break}
-    case 'pick':b.parentNode.querySelectorAll('button').forEach(x=>x.setAttribute('aria-pressed',x===b));if(b.parentNode.id==='s-click'&&b.dataset.v!=='off')setTimeout(()=>clickSnd(b.dataset.v),120);if(b.parentNode.id==='s-font')useFont(b.dataset.v);break;
+    case 'pick':b.parentNode.querySelectorAll('button').forEach(x=>x.setAttribute('aria-pressed',x===b));if(b.parentNode.id==='s-click'&&b.dataset.v!=='off')setTimeout(()=>clickSnd(b.dataset.v),120);break;
     case 'adj':{const k=b.dataset.k,v=Math.max(-30,Math.min(30,(S.draft.adj[k]||0)+(+b.dataset.d)));S.draft.adj[k]=v;document.getElementById('s-'+k).textContent=(v>0?'+':'')+v+' د';break}
     case 'hadj':{const v=Math.max(-2,Math.min(2,S.draft.hijriAdj+(+b.dataset.d)));S.draft.hijriAdj=v;document.getElementById('s-h').textContent=(v>0?'+':'')+v+' يوم';document.getElementById('s-hv').textContent=hDate(v);break}
     case 'done':{const all=lsGet('ds-tasks',[])||[],t=all.find(x=>x.id===b.dataset.id);if(t){t.done=true;t.doneAt=localDay();saveTasks(all);S.skip=0;const sk=streakBump(),left=tasks().filter(x=>!x.done).length;
@@ -2481,10 +2488,10 @@ document.addEventListener('submit',e=>{
     for(const k of ['birthday','school','holiday','graduation']){const v=document.getElementById('s-pd-'+k)?.value||'';if(/^\d{4}-\d\d-\d\d$/.test(v))pd[k]=v}
     const occ=[...document.querySelectorAll('input[name="occ"]')].filter(i=>i.checked).map(i=>i.value),wf=+document.getElementById('s-wf').value,wt=+document.getElementById('s-wt').value;
     ST={...S.draft,name:document.getElementById('s-name').value.trim().slice(0,30),city:document.getElementById('s-city').value,method:pick('s-method')||'uq',theme:pick('s-theme')||'auto',clock:pick('s-clock')||'12',
-      palette:pick('s-pal')||ST.palette,font:pick('s-font')||ST.font,mascot:pick('s-mascot')!=='0',adhan:pick('s-adhan')||'aqsa',fajr:pick('s-fajr')||'same',pre:+(pick('s-pre')||0),click:pick('s-click')||'pop',nudge:+(pick('s-nudge')||0),
+      palette:pick('s-pal')||ST.palette,mascot:pick('s-mascot')!=='0',adhan:pick('s-adhan')||'aqsa',fajr:pick('s-fajr')||'same',pre:+(pick('s-pre')||0),click:pick('s-click')||'pop',nudge:+(pick('s-nudge')||0),
       work:wf<wt?[wf,wt]:ST.work,dict:pick('s-dict')||'ar',occOn:pick('s-occon')!=='0',occ:occ.length===OCC.length?null:occ,pd,
       hijriTop:chk('s-hijriTop'),hijriTasks:chk('s-hijriTasks'),countdown:chk('s-countdown'),greet:chk('s-greet')};
-    lsSet('ds-settings',ST);useFont(ST.font);PAL=PALETTES[ST.palette]||PALETTES.navy;curDark=null;OB.key='';closeSettings();toast('انحفظت الإعدادات')}
+    lsSet('ds-settings',ST);PAL=PALETTES[ST.palette]||PALETTES.navy;curDark=null;OB.key='';closeSettings();toast('انحفظت الإعدادات')}
 });
 document.addEventListener('change',async e=>{const id=e.target.id;
   if(id==='s-file'||id==='s-ffile'){const file=e.target.files&&e.target.files[0];if(!file)return;

diff --git a/service-worker.js b/service-worker.js
@@ -1,4 +1,4 @@
-const CACHE = 'office-desk-pwa-v3';
+const CACHE = 'office-desk-pwa-v4';
 const CORE = [
   './',
   './index.html',
@@ -7,7 +7,8 @@ const CORE = [
   './icon-512.png',
   './icon-maskable-512.png',
   './apple-touch-icon.png',
-  './adhan-aqsa.mp3'
+  './adhan-aqsa.mp3',
+  './fonts/readex-pro.woff2'
 ];
 self.addEventListener('install', event => {
   // cache each file on its own, so one missing file never blocks the install
